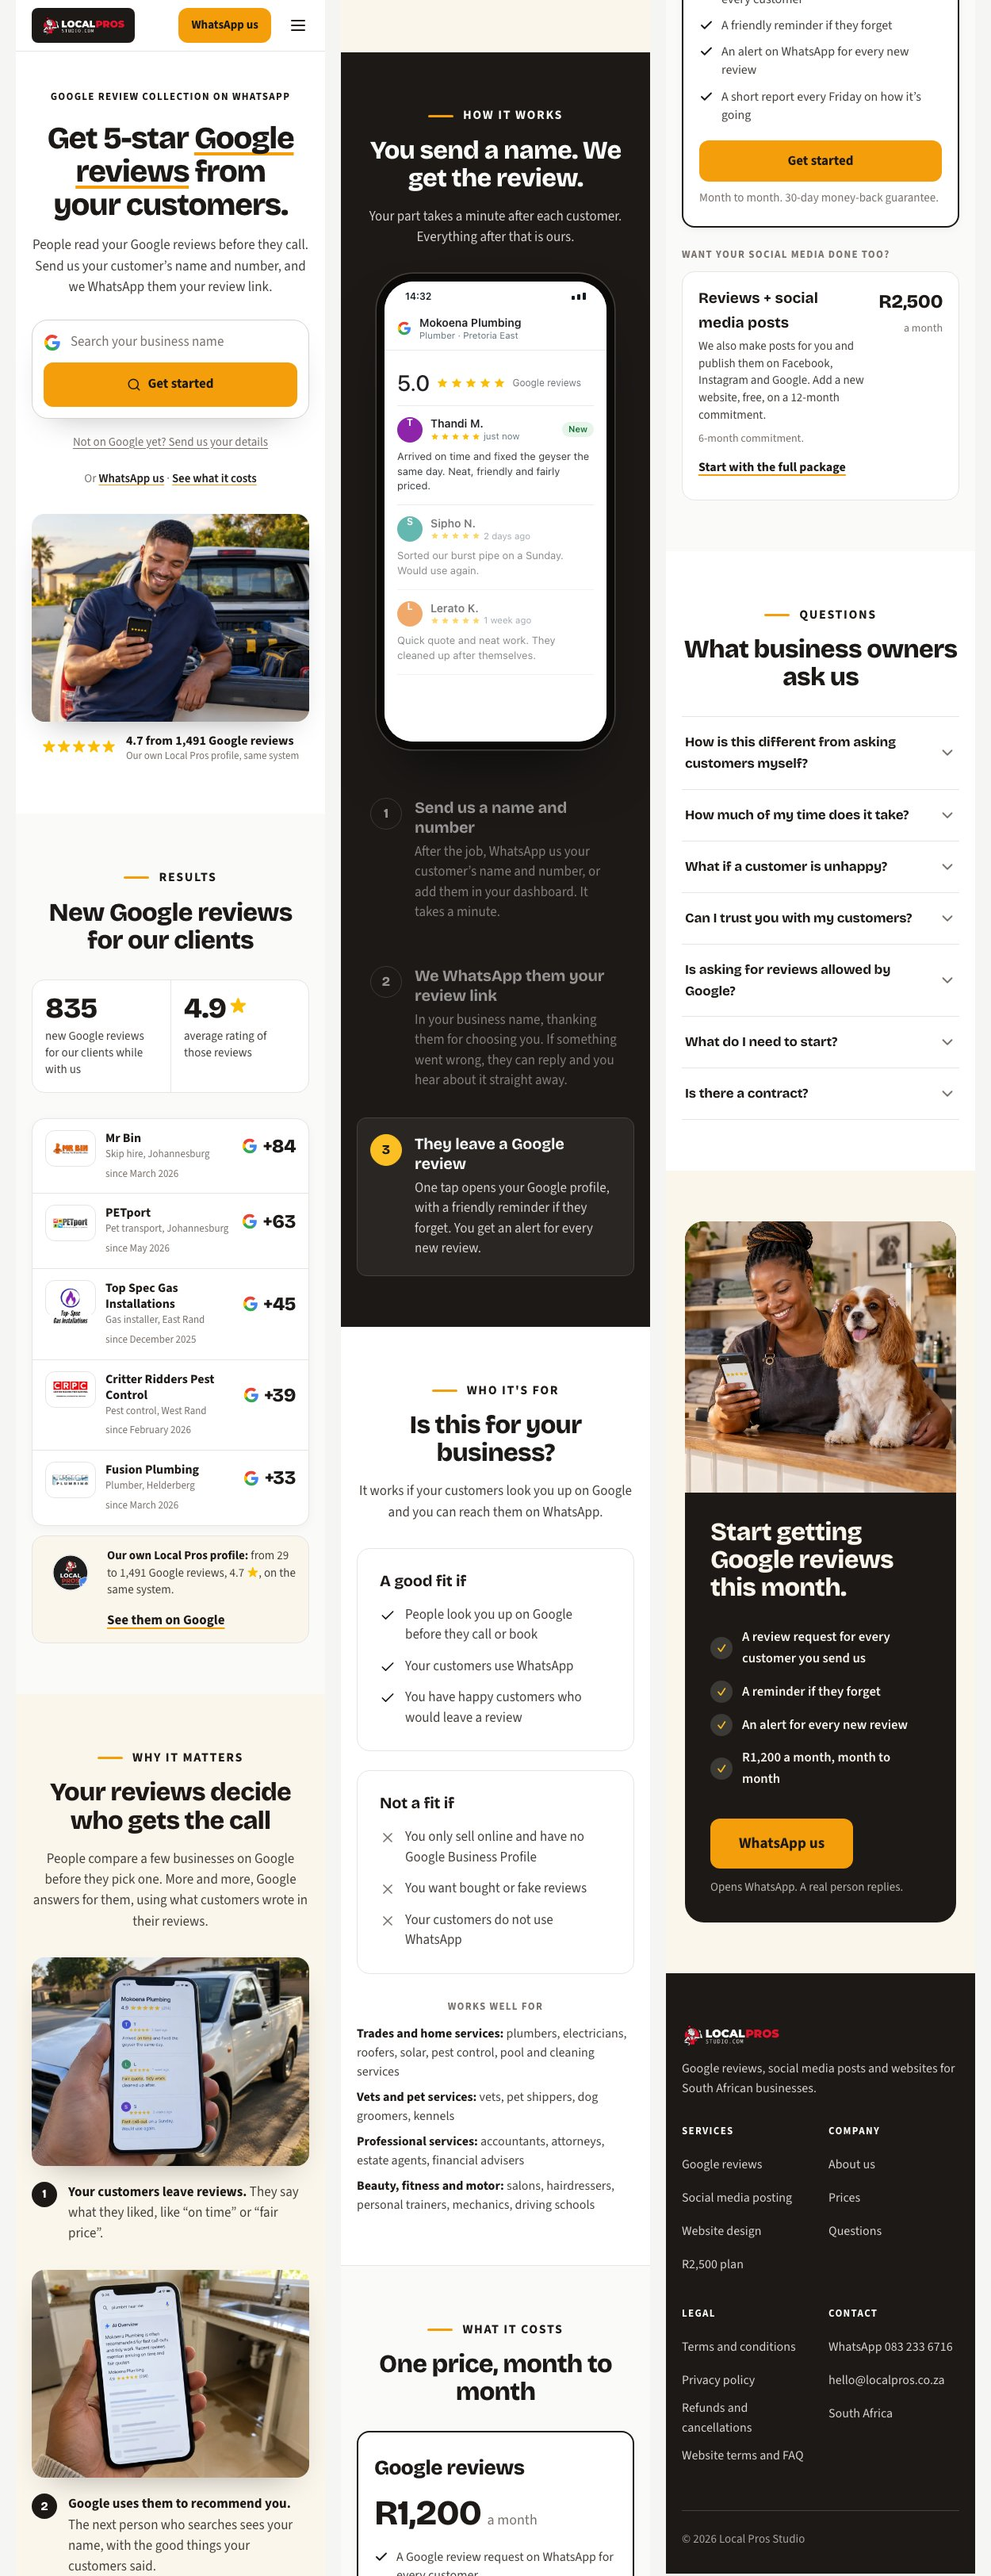
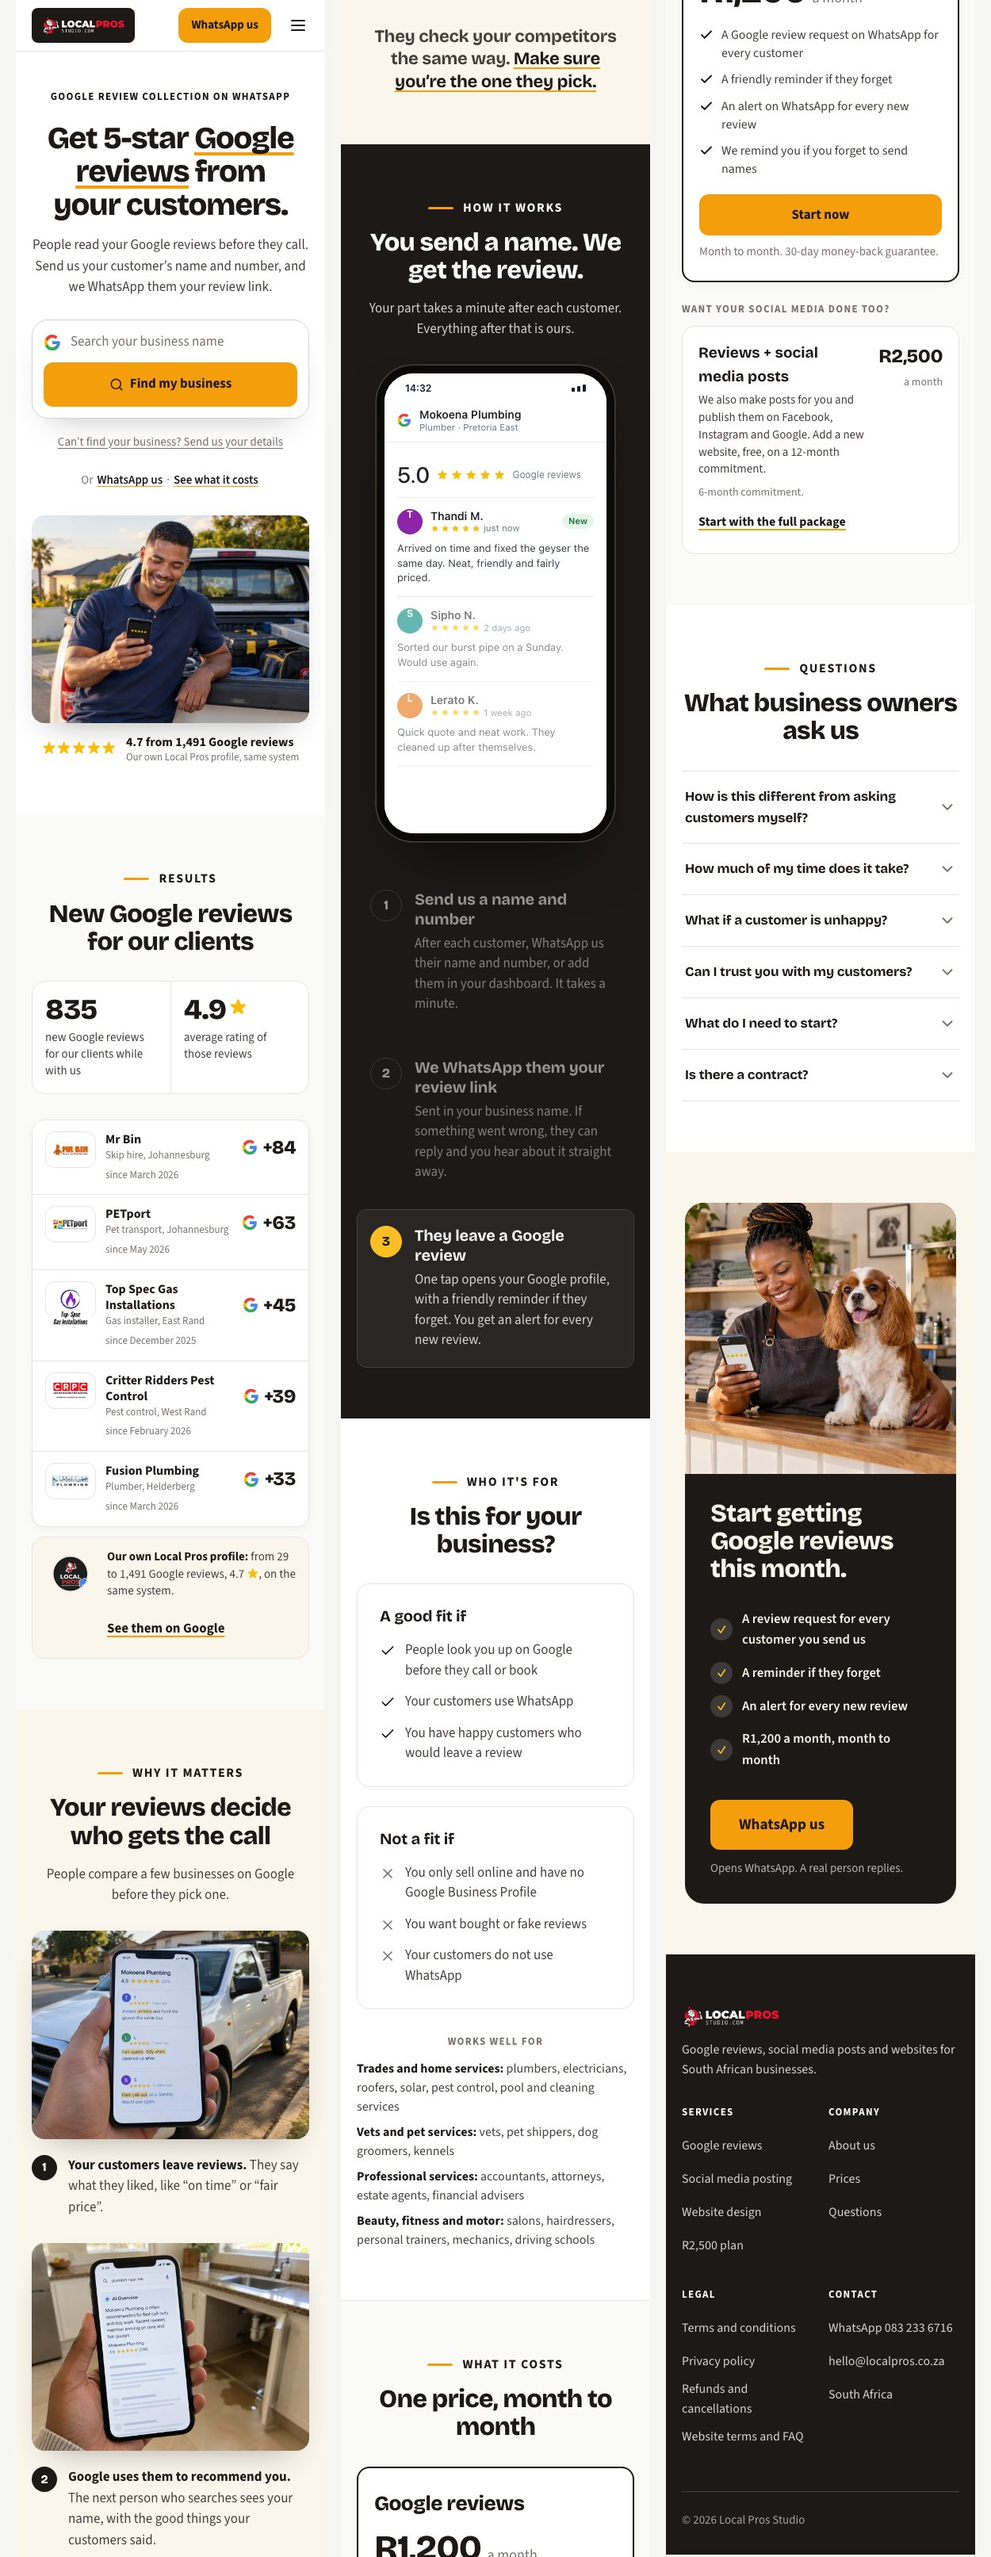
Reviews page draft: tighter copy after a fresh-eyes review

diff --git a/src/components/reviews-light/ReviewsLight.tsx b/src/components/reviews-light/ReviewsLight.tsx
@@ -40,11 +40,11 @@ import whySummary from './img/why-now-ai-overview-on-phone.webp';
 const STEPS = [
   {
     title: 'Send us a name and number',
-    body: 'After the job, WhatsApp us your customer’s name and number, or add them in your dashboard. It takes a minute.',
+    body: 'After each customer, WhatsApp us their name and number, or add them in your dashboard. It takes a minute.',
   },
   {
     title: 'We WhatsApp them your review link',
-    body: 'In your business name, thanking them for choosing you. If something went wrong, they can reply and you hear about it straight away.',
+    body: 'Sent in your business name. If something went wrong, they can reply and you hear about it straight away.',
   },
   {
     title: 'They leave a Google review',
@@ -57,10 +57,8 @@ const INCLUDED = [
   'A Google review request on WhatsApp for every customer',
   'A friendly reminder if they forget',
   'An alert on WhatsApp for every new review',
-  'A short report every Friday on how it’s going',
+  'We remind you if you forget to send names',
 ];
-
-const FIT_SUB = 'It works if your customers look you up on Google and you can reach them on WhatsApp.';
 
 // The objections every FAQ answers (DESIGN-SYSTEM.md section 2), each answered in its first sentence
 const FAQ = [
@@ -74,15 +72,11 @@ const FAQ = [
   },
   {
     q: 'What if a customer is unhappy?',
-    a: 'They can reply on the same WhatsApp and you get an alert straight away, so you can phone them and sort it out. A quick call is the best way to put it right.',
+    a: 'They can reply on the same WhatsApp and you get an alert straight away, so you can phone them and sort it out.',
   },
   {
     q: 'Can I trust you with my customers?',
-    a: 'Yes. Your customers get a review request in your business name and a reminder, nothing else. We only ask your real customers, and we never sell their details (see our privacy policy).',
-  },
-  {
-    q: 'Is asking for reviews allowed by Google?',
-    a: 'Yes. Asking your real customers for an honest review is allowed. We never buy, write or swap reviews.',
+    a: 'Yes. Your customers get a review request in your business name and a reminder, nothing else. We only ask your real customers for an honest review, which Google allows, and we never buy, write or swap reviews or sell their details.',
   },
   {
     q: 'What do I need to start?',
@@ -143,7 +137,7 @@ export default function ReviewsLight() {
                 page="reviews"
                 plan="reviews"
                 buttonLabel="Find my business"
-                notOnGoogleLabel="Not on Google yet? Send us your details"
+                notOnGoogleLabel="Can’t find your business? Send us your details"
               />
               <p className="rvl-or">
                 Or{' '}
@@ -208,8 +202,7 @@ export default function ReviewsLight() {
               <p className="dd-eyebrow">Why it matters</p>
               <h2 className="dd-h2">Your reviews decide who gets the call</h2>
               <p className="dd-sub">
-                People compare a few businesses on Google before they pick one. More and more, Google answers for them,
-                using what customers wrote in their reviews.
+                People compare a few businesses on Google before they pick one.
               </p>
             </div>
             <div className="rvl-why-grid">
@@ -263,7 +256,7 @@ export default function ReviewsLight() {
         />
 
         {/* WHO IT'S FOR: the shared fit section with its default lists */}
-        <FitCheck sub={FIT_SUB} />
+        <FitCheck />
 
         {/* PRICE: one card with everything included, and the package as the next step up */}
         <section className="dd-sec rvl-price" id="pricing">
@@ -287,7 +280,7 @@ export default function ReviewsLight() {
                   ))}
                 </ul>
                 <button type="button" className="dd-btn dd-btn-primary pr-btn" onClick={() => openSiteChat('reviews')}>
-                  Get started
+                  Start now
                 </button>
                 <p className="pr-terms">Month to month. 30-day money-back guarantee.</p>
               </div>
@@ -339,7 +332,7 @@ export default function ReviewsLight() {
 
       <SiteFooter pricingHref="#pricing" faqHref="#faq" />
 
-      {/* The site chat: the search box and "Get started" open it with Google reviews picked; it saves the lead to
+      {/* The site chat: the search box and "Start now" open it with Google reviews picked; it saves the lead to
           Airtable the moment a business is picked. It never opens by itself here. */}
       <SiteChat page="reviews" />
     </div>

diff --git a/design/reviews-page/OPTIONS.md b/design/reviews-page/OPTIONS.md
@@ -49,6 +49,13 @@ literal copy, phone first).
 6. Matched the other session's change: search buttons say "Find my business" everywhere.
 7. Added your approved homepage line under "Why it matters": "They check your competitors the same way. Make sure
    you're the one they pick."
+8. Fresh-eyes critique (a second reviewer against the design rules and your session notes). Taken: shorter how-it-works
+   steps ("after each customer", not "after the job"), shorter "Why it matters" intro, FAQ down to 6, no repeated fit
+   subtitle, price button "Start now" like the homepage, "Can't find your business?" instead of "Not on Google yet?",
+   "We remind you if you forget to send names" instead of the Friday report. Not taken: badge back over the photo on
+   phones (it hid the review on his screen), rewording the shared client rows (you approved them on the homepage).
+9. Open for you: the closing button goes straight to WhatsApp (like the homepage), so no lead record is made from it.
+   Option: make it open the chat instead, which saves the lead first. Same choice applies to the homepage.
 
 ## One thing outside this page
 
